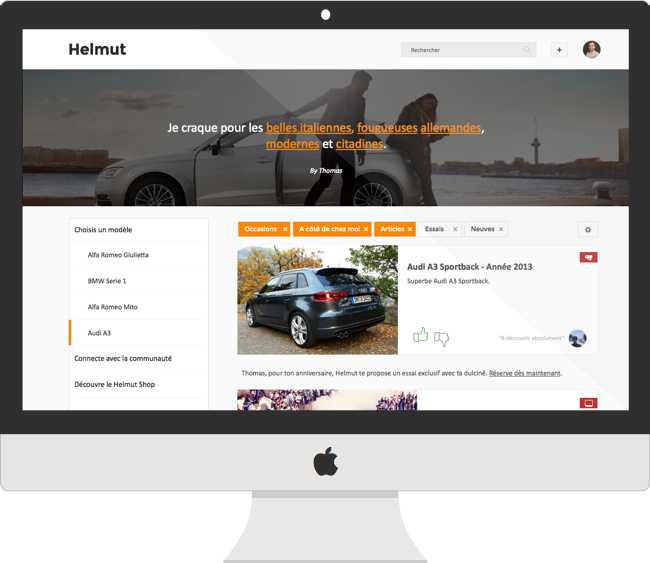
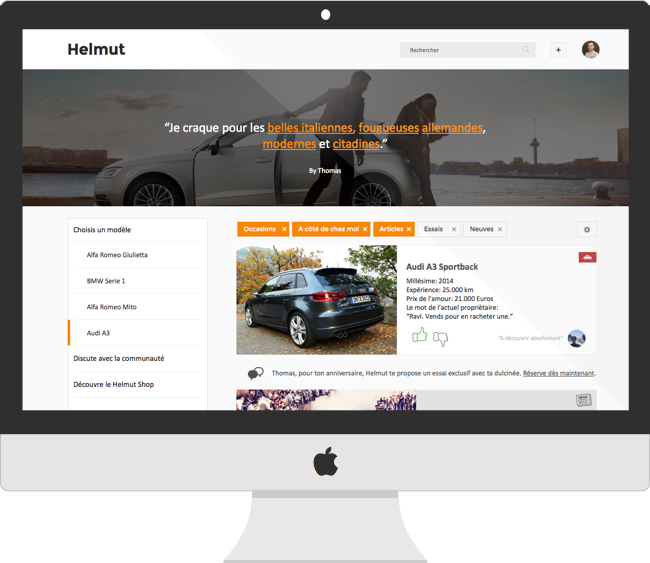
[Version 22.02] Helmut Visuels Validation

diff --git a/index.html b/index.html
@@ -63,7 +63,7 @@
 		  ga('send', 'pageview');
 		  ga('_trackEvent')
 
-</script>
+		</script>
 	</head>
 	<body>
 		<!--[if lt IE 7]>
@@ -207,18 +207,6 @@
 			</div>
 		</section> 
 
-		<!--section class="features-list" id="about">
-			<div class="container">
-				<div class="row">
-					<div class="headline">
-							<span>Toutes les marques en un clin d'oeil</span>
-						</div>
-					<div class="col-md-12 text-center">
-						
-					</div>
-				</div>
-			</div>
-		</section>-->
 
 		<section class="download" id="download">
 			<div class="container">
@@ -232,16 +220,30 @@
 				</div>
 			</div>
 		</section>
+
+
+		<!--section class="features-list" id="about">
+			<div class="container">
+				<div class="row">
+					<div class="col-md-12 text-center">
+						<div class="fb-like" data-href="https://www.facebook.com/garagehelmut" data-width="300" data-layout="standard" data-action="like" data-show-faces="true" data-share="true" data-colorscheme="light"></div>
+					</div>
+				</div>
+			</div>
+		</section>-->
 				
 		<footer>
 			<div class="container">
 				<div class="row">
-					<div class="col-md-7">
+					<div class="col-md-3">
 						<h1 class="footer-logo">
 						<img src="img/logo-black.png" alt="Footer Logo Blue">
 						</h1>
 						<p>© Helmut SA 2015 - Tous droits réservés</p>
 					</div>
+					<div class="col-md-4">
+						<div class="fb-like" data-href="https://www.facebook.com/garagehelmut" data-width="100" data-layout="standard" data-action="like" data-show-faces="true" data-share="true" data-colorscheme="light"></div>
+					</div>	
 					<div class="col-md-5">
 						<ul class="footer-nav">
 							<li><a href="mailto:garagehelmutbonjour@gmail.com">Contacter Helmut</a></li>

diff --git a/css/styles.css b/css/styles.css
@@ -975,6 +975,11 @@ Screenshots
 }
 
 
+/* ==========================================================================
+Facebook 
+========================================================================== */
+
+
 
 /* ==========================================================================
 Download Now
